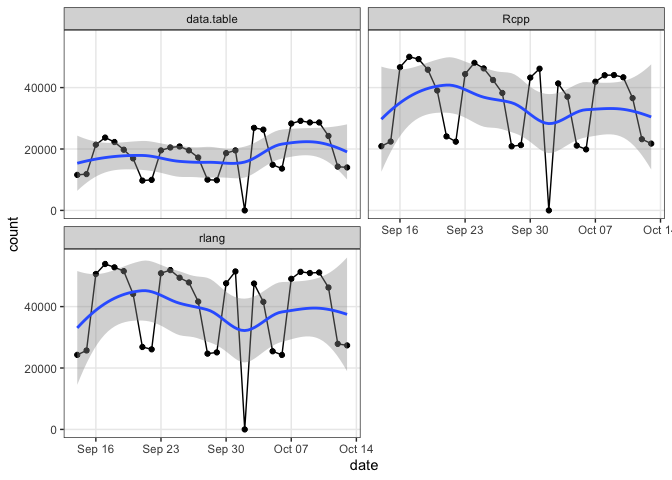
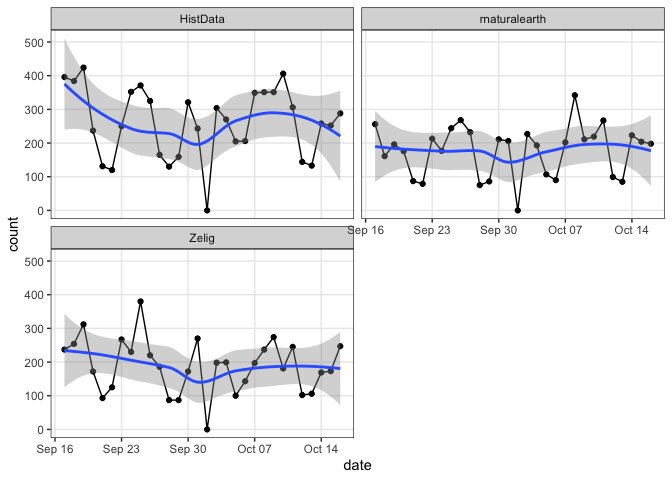
copyedit README

diff --git a/README.md b/README.md
@@ -1,7 +1,6 @@
 
 <!-- README.md is generated from README.Rmd. Please edit that file -->
-[![CRAN\_Status\_Badge](http://www.r-pkg.org/badges/version/packageRank)](https://cran.r-project.org/package=packageRank)
-[![GitHub\_Status\_Badge](https://img.shields.io/badge/GitHub-0.3.0-red.svg)](https://github.com/lindbrook/packageRank/blob/master/NEWS)
+
 ## packageRank: compute and visualize package download counts and rank percentiles
 
 ### Features
@@ -10,13 +9,13 @@
     of downloads from RStudio’s [CRAN
     mirror](http://cran-logs.rstudio.com) and
     [Bioconductor](https://bioconductor.org/).
-  - visualize a package’s position in the distribution of package
-    download counts for a given day (cross-sectionally) or over time
-    (longitudinally).
+  - compute and visualize a package’s position in the overall
+    distribution of download counts for a given day (cross-sectionally)
+    or over time (longitudinally).
 
 NOTE: ‘packageRank’ relies on an active internet connection. CRAN logs
-are generally updated at 17:00 UTC; ‘cranlogs’ functions are updated
-soon after.
+are generally updated at 17:00 UTC; results from ‘cranlogs’ based
+functions are updated soon after.
 
 ### Getting started
 
@@ -37,8 +36,8 @@ remotes::install_github("lindbrook/packageRank", build_vignettes = TRUE)
 ### I - Background
 
 The ‘[cranlogs](https://cran.r-project.org/package=cranlogs)’ package
-computes the number of downloads, be it packages or the R application
-itself, from RStudio’s [CRAN mirror](http://cran-logs.rstudio.com).
+computes the number of downloads, packages and R itself, from RStudio’s
+[CRAN mirror](http://cran-logs.rstudio.com).
 
 For example, we can see that on the first day of 2019 the
 ‘[HistData](https://cran.r-project.org/package=HistData)’ package was
@@ -52,9 +51,10 @@ cranlogs::cran_downloads(packages = "HistData", from = "2019-01-01", to = "2019-
 ```
 
 Lurking in the background is the “compared to what?” question. Is 51
-downloads large or small? Similarly, when we look at the data from the
-first week of 2019, we might wonder whether the pattern is typical or
-idiosyncratic:
+downloads large or small? Similarly, if we look at the data from the
+first week of 2019, we might wonder whether the pattern we see is
+typical or
+not:
 
 ``` r
 cranlogs::cran_downloads(packages = "HistData", from = "2019-01-01", to = "2019-01-07")
@@ -69,14 +69,13 @@ cranlogs::cran_downloads(packages = "HistData", from = "2019-01-01", to = "2019-
 ```
 
 The objective of ‘packageRank’ is to help answer such questions by
-putting download counts into greater context.
+putting these counts into context.
 
 ### II - Computation of downloads
 
-To compute package or R download counts, use `cranDownloads()`. In
-contrast to `cranlogs::cran_downloads()`, `cranDownloads()` has more
-convenient interface: you can pass dates as “yyyy-mm-dd”, “yyyy-mm” or
-“yyyy”. After all, who can remember which months have 30, 31 days.
+To compute package or R downloads, use `cranDownloads()`. In contrast to
+`cranlogs::cran_downloads()`, `cranDownloads()` has more convenient
+interface: you can pass dates as “yyyy-mm-dd”, “yyyy-mm” or “yyyy”.
 
 ``` r
 # Downloads from December 31, 2018 through June 25, 2019
@@ -92,8 +91,8 @@ cranDownloads(packages = "HistData", from = "2015", to = "2019")
 cranDownloads(packages = "HistData", from = "2019")
 ```
 
-You can compute downloads for multiple packages by passing a character
-vector.
+To compute downloads for multiple packages, pass a character vector of
+package names.
 
 ``` r
 cranDownloads(packages = c("Rcpp", "rlang", "data.table"))
@@ -101,8 +100,9 @@ cranDownloads(packages = c("Rcpp", "rlang", "data.table"))
 
 ### III - Visualization of downloads
 
-With longer time series (more data), visualization is especially useful.
-To do so, use `cranDownloads()`’s plot method:
+When dealing with many observations (e.g., longer time series),
+visualization can be especially useful. To do so, simply use
+`cranDownloads()`’s plot method:
 
 ``` r
 # Downloads from December 31, 2018 throught June 25, 2019
@@ -134,8 +134,8 @@ plot(cranDownloads(packages = "HistData", from = "2019"))
 
 #### multiple packages
 
-When you pass multiple packages, you’ll get a dot chart for a single
-date and a ‘ggplot2’ figure with multiple facets for multiple
+When you pass a vector of multiple packages, you’ll get a dot chart for
+a single date and a ‘ggplot2’ figure with multiple facets for multiple
 dates:
 
 ``` r
@@ -150,6 +150,14 @@ plot(cranDownloads(packages = c("Rcpp", "rlang", "data.table"), when = "last-mon
 
 ![](man/figures/README-unnamed-chunk-8-2.png)<!-- -->
 
+If you want separate plots for each package, set the graphics argument
+to
+“base”.
+
+``` r
+plot(cranDownloads(packages = c("Rcpp", "rlang", "data.table"), when = "last-month"), graphics = "base")
+```
+
 #### smoothers, confidence intervals, and R release dates
 
 You can add a smoother with the ‘smooth’ argument. The ‘r.version’
@@ -157,20 +165,20 @@ argument annotates the plot the R release
 dates.
 
 ``` r
-plot(cranDownloads(packages = "HistData", from = "2019"), smooth = TRUE, r.version = TRUE)
-```
-
-![](man/figures/README-unnamed-chunk-9-1.png)<!-- -->
-
-With ‘ggplot2’ figures, the ‘se’ argument adds confidence
-intervals.
-
-``` r
-plot(cranDownloads(packages = c("Rcpp", "rlang", "data.table"), when = "last-month"), smooth = TRUE,
-  se = TRUE)
+plot(cranDownloads(packages = "rstan", from = "2019"), smooth = TRUE, r.version = TRUE)
 ```
 
 ![](man/figures/README-unnamed-chunk-10-1.png)<!-- -->
+
+With ‘ggplot2’ figures, setting se = TRUE argument adds confidence
+intervals.
+
+``` r
+plot(cranDownloads(packages = c("HistData", "rnaturalearth", "Zelig"), when = "last-month"), smooth = TRUE,
+  se = TRUE)
+```
+
+![](man/figures/README-unnamed-chunk-11-1.png)<!-- -->
 
 #### Bioconductor
 
@@ -180,7 +188,7 @@ be “yyyy-mm” or “yyyy”.
 
 ``` r
 # Downloads from June 2015 through June 2019
-plot(bioconductorDownloads(packages = "monocle", from = "2015-06", to = "2019-06"), points = FALSE)
+plot(bioconductorDownloads(packages = "monocle", from = "2015-06", to = "2019-06"))
 ```
 
 ![](man/figures/README-bioconductorDownloads-1.png)<!-- -->
@@ -193,15 +201,20 @@ plot(bioconductorDownloads(packages = "monocle", from = "2019"))
 
 ![](man/figures/README-bioconductorDownloads-2.png)<!-- -->
 
-Because Bioconductor aggregates its data, a red square is used to
-indicate an in-progress observation.
+Because of this aggregation, red squares are used to indicate
+in-progress observations.
 
 ### IV - Computing percentiles and ranks
 
-One way to put download counts into context to compute the rank
-percentile and nominal rank of a package’s downloads. Such statistics
-give us an idea of a package’s place in the overall distribution of
-package downloads.
+One way to put download counts into context is to compute the rank
+percentile of a package’s downloads. Such a statistic give us an idea of
+a package’s place in the overall distribution of downloads.
+
+    > Registered S3 method overwritten by 'R.oo':
+    >   method        from       
+    >   throw.default R.methodsS3
+    >         date packages downloads percentile          rank
+    > 1 2019-01-01 HistData        51       93.4 920 of 14,020
 
 ``` r
 packageRank(packages = "HistData", date = "2019-01-01")
@@ -217,8 +230,8 @@ standardized test, tell us that 93% of packages had fewer downloads than
 Because packages with zero downloads are not recorded in the log, there
 is a potential censoring problem. However, my analysis indicates that
 the number of CRAN packages (not in the archive) without any downloads
-on a given day is actually pretty small. In fact, a significant number
-of packages (50% not unusual) in the archive (not on CRAN) are regularly
+on a given day is actually pretty small. Also, a significant number of
+packages (50% not unusual) in the archive (not on CRAN) are regularly
 downloaded.
 
 #### computing rank percentile
@@ -265,10 +278,31 @@ downloads[downloads == 51]
 >              51              51
 ```
 
+For Bioconductor packages, use bioconductorRank():
+
+``` r
+bioconductorRank(packages = "cicero", date = "2019-09")
+>      date packages downloads percentile         rank
+> 1 2019-09   cicero       171       77.3 434 of 1,912
+```
+
+#### warning message
+
+With both of these functions and R \>= 3.6, you’re likely to see this
+warning message the first time the functions are run:
+
+    Registered S3 method overwritten by 'R.oo':
+      method        from
+      throw.default R.methodsS3
+
+This is a consequence of an upstream, higher-order package dependency.
+See [here](https://github.com/HenrikBengtsson/R.utils/issues/95) and
+[here](https://github.com/HenrikBengtsson/R.methodsS3/issues/15) for
+details.
+
 ### V - Visualizing percentiles and ranks (cross-sectional)
 
-We can also visualize the rank percentile using `packageRank()`’s
-generic plot
+To visualize the rank percentile, use `packageRank()`’s plot
 method:
 
 ``` r
@@ -277,14 +311,14 @@ plot(packageRank(packages = "HistData", date = "2019-01-01"))
 
 <img src="man/figures/README-plot1a-1.png" style="display: block; margin: auto auto auto 0;" />
 
-This cross-sectional view plots a package’s rank (x-axis) against the
-base 10 logarithm of its downloads (y-axis) and highlights its position
-in the overall distribution of downloads. In addition, the plot
-illustrates 1) a package’s rank percentile and raw count of downloads
-(in red); 2) the location of the 75th, 50th and 25th percentiles (dotted
-gray vertical lines); 3) the package with the most downloads, in this
-case ‘WGCNA’ (in blue, top left); and 4) the total number of downloads
-(2,982,767 for CRAN) (in blue, top right).
+This provides a cross-sectional view which plots a package’s rank
+(x-axis) against the base 10 logarithm of its downloads (y-axis), and
+highlights its position in the overall distribution of downloads. In
+addition, the plot illustrates 1) a package’s rank percentile and raw
+count of downloads (in red); 2) the location of the 75th, 50th and 25th
+percentiles (dotted gray vertical lines); 3) the package with the most
+downloads, in this case ‘WGCNA’ (in blue, top left); and 4) the total
+number of downloads (2,982,767 for CRAN) (in blue, top right).
 
 You can also pass a vector of
 packages:
@@ -295,8 +329,8 @@ plot(packageRank(packages = c("cholera", "HistData", "regtools"), date = "2019-0
 
 <img src="man/figures/README-plot2a-1.png" style="display: block; margin: auto auto auto 0;" />
 
-You can also look up [Bioconductor](https://bioconductor.org/)
-packages:
+You can also use this with
+bioconductorRank():
 
 ``` r
 plot(bioconductorRank(packages = "cicero", date = "2019-01"))
@@ -323,7 +357,9 @@ stratified random sample of packages: within each 5% interval of rank
 percentiles (e.g., 0 to 5, 5 to 10, 95 to 100, etc.), a random sample of
 5% of packages is selected and tracked over time. This sample
 approximates the “typical” pattern of package downloads for that time
-period. Note that for this function, only two time frames are currently
+period.
+
+Note that for this function, only two time frames are currently
 available: “last-week” and “last-month”. Also, a version for
 [Bioconductor](https://bioconductor.org/) packages is not currently
 available.
@@ -331,9 +367,10 @@ available.
 ### VII Graphics: base R and ‘ggplot2’
 
 All plot are available as both base R and ‘ggplot2’ graphs. By default,
-plot with single frame/panels (one package or one day) use base graphics
-while those with multiple frames/panels use ‘ggplot2’. You can override
-these defaults by using the “graphics” argument in the plot() method.
+plots with single frame/panels (one package or one day) use base
+graphics while those with multiple frames/panels use ‘ggplot2’. You can
+override these defaults by using the “graphics” argument in the plot()
+method.
 
 ### VIII - Memoization
 
